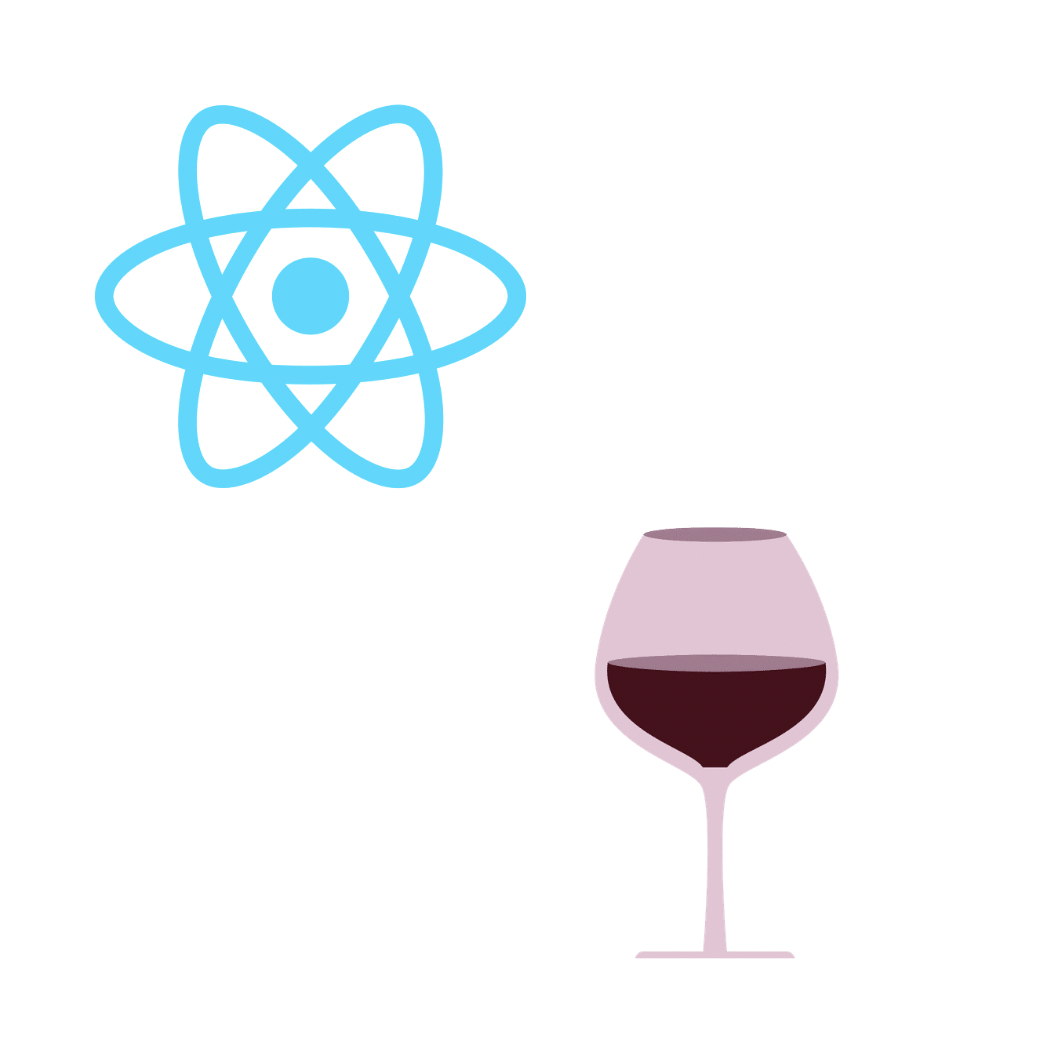
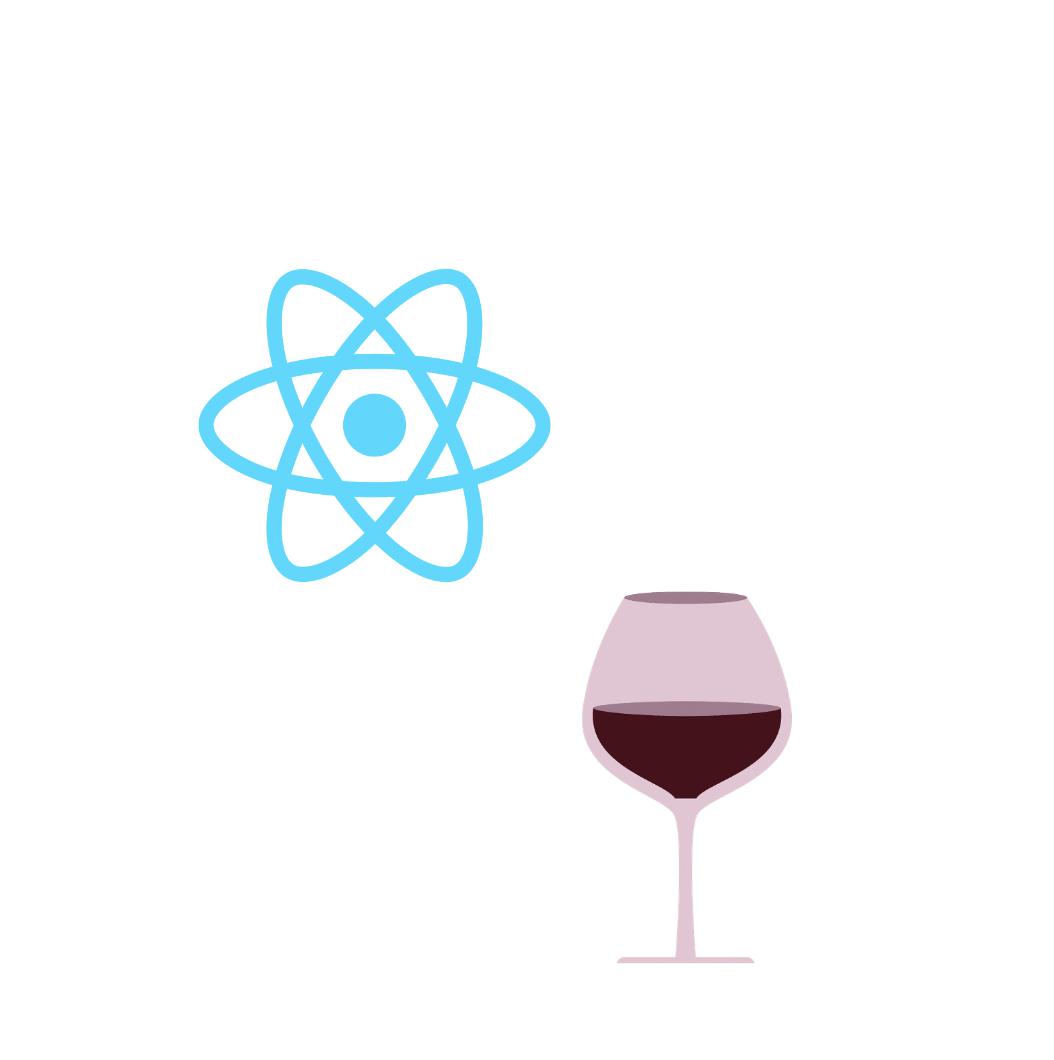
style changes

Changed region(s): [[0.0911, 0.0934, 0.5465, 0.5604], [0.5465, 0.4981, 0.7894, 0.934]]

diff --git a/src/App.js b/src/App.js
@@ -31,89 +31,71 @@ function App() {
         </p>
       </div>
       </div>
+<div className="project-header">
+      <span className="arrow-right">&#8595;</span>
+      <p>Projects</p>
+      <span className="arrow-left">&#8595;</span>
+</div>
+<div className="project-container">
+<a href="https://hilariousalpaca112.github.io/personas/">
+  <div className="project-item">
 
-        <div className="project-header">
-          <p>Projects I've Worked On</p>
+    <div className="project-description">
+        <p className="project-title"><b>Personas & Storyboarding</b></p>
+         <p className="about-text">
+        In this project, I observed users of the New York City MetroCard machines. Based on these observations and a brief interview with some users,
+        I designed personas and a storyboard to describe what the user experience is for the MetroCard machines.
+        </p>
         </div>
-        <div className="project-container">
-        <Row xs={1} md={2} className="g-4">    
-      
-          <Col>
-          <Card
+        <img src={require("./images/personas.png") } alt="personas image">
+        </img>
+        </div>
+    </a>
 
-          border="secondary"
-          className="card-item">
-          <Card.Img variant="top" className="project-img"src={require("./images/personas.png") }/>
-            <Card.Body>
-              <Card.Title>Personas & Storyboarding</Card.Title>
-              <Card.Text>
-                In this project, I observed users of the New York City MetroCard machines. Based on these observations and a brief interview with some users,
-                I designed personas and a storyboard to describe what the user experience is for the MetroCard machines.
-              </Card.Text>
-              <a href="https://hilariousalpaca112.github.io/personas/">
-              <Button 
-              variant="secondary">See Project</Button>
-              </a>
-            </Card.Body>
-          </Card>
-          </Col>
+    <a href="https://hilariousalpaca112.github.io/responsive-redesign/">
+  <div className="project-item">
+  <img src={require("./images/redesign.png") } alt="responsive redesign image">
+        </img>
+    <div className="project-description">
+        <p className="project-title"><b>Responsive Redesign</b></p>
+         <p className="about-text">
+         For this project, I redesigned a website interface with usability and accessibility principles in mind. Additionally, the redesigned site is 
+         responsive, so play around with different screen sizes to see how it looks on other devices!
+        </p>
+        </div>
 
+        </div>
+    </a>
 
-          <Col>
-          <Card
-          border="secondary"
-          className="card-item">
-          <Card.Img variant="top" className="project-img" src={require("./images/redesign.png") }/>
-            <Card.Body>
-              <Card.Title>Responsive Redesign</Card.Title>
-              <Card.Text>
-                For this project, I redesigned a website interface with usability and accessibility principles in mind. Additionally, the redesigned site is 
-                responsive, so play around with different screen sizes to see how it looks on other devices!
-              </Card.Text>
-              <a href="https://hilariousalpaca112.github.io/responsive-redesign/">
-              <Button variant="secondary">See Project</Button>
-              </a>
-            </Card.Body>
-          </Card>
-          </Col>
-
-          <Col>
-          <Card 
-          border="secondary"
-          className="card-item">
-          <Card.Img variant="top" className="project-img" src={require("./images/iterative-design.png") }/>
-            <Card.Body>
-              <Card.Title>Iterative Design</Card.Title>
-              <Card.Text>
-                As part of a <b>group project</b>, I helped to design an interface for Radius, a grocery delivery service
+    <a href="https://coldturkey888.github.io/cs1300-iterative-design/">
+  <div className="project-item">
+    <div className="project-description">
+        <p className="project-title"><b>Iterative Design</b></p>
+         <p className="about-text">
+         As part of a <b>group project</b>, I helped to design an interface for Radius, a grocery delivery service
                 based out of Jakarta, Indonesia. I gained valuable skills with prototyping and incorporating feedback from critiques!
-              </Card.Text>
-              <a href="https://coldturkey888.github.io/cs1300-iterative-design/">
-              <Button variant="secondary">See Project</Button>
-              </a>
-            </Card.Body>
-          </Card>
-          </Col>
+        </p>
+        </div>
+        <img src={require("./images/iterative-design.png") } alt="iterative design image">
+        </img>
+        </div>
+    </a>
 
-          <Col>
-          <Card 
-          border="secondary"
-          className="card-item">
-          <Card.Img variant="top" className="project-img" src={require("./images/development.png") }/>
-            <Card.Body>
-              <Card.Title>Development</Card.Title>
-              <Card.Text>
-                I used React for this project to create a simple online wine shop. It was a great way to learn more about React as well as good
-                design practices.
-                
-              </Card.Text>
-              <a href="https://hilariousalpaca112.github.io/development-page/">
-              <Button variant="secondary">See Project</Button>
-              </a>
-            </Card.Body>
-          </Card> 
-          </Col>     
-        </Row>
+
+    <a href="https://hilariousalpaca112.github.io/development-page/">
+  <div className="project-item">
+  <img src={require("./images/development.png") } alt="development image">
+        </img>
+    <div className="project-description">
+        <p className="project-title"><b>Development</b></p>
+         <p className="about-text">
+         I used React for this project to create a simple online wine shop. It was a great way to learn more about React as well as good
+         design practices.
+        </p>
+        </div>
+
+        </div>
+    </a>
         </div>
     </div>
   );

diff --git a/src/App.css b/src/App.css
@@ -1,5 +1,5 @@
 .App {
-  text-align: center;
+  
 }
 .my-image {
   display: inline-block;
@@ -8,8 +8,12 @@
   border-radius: 50%;
   margin-left: 100px;
   object-fit: cover;
+ 
 }
-
+img{
+  height: 600px;
+  width: 750px;
+}
 .about-container{
   display: flex;
   flex-direction: row;
@@ -28,32 +32,74 @@
   align-items: center;
   justify-content: center;
   font-size: 48px;
-  color: navy;
+  color: black;
 }
 .project-header{
-  padding-top: 1%;
-  padding-bottom: 1%;
   display: flex;
-  background-color: navy;
-  flex-direction: column;
-  align-items: center;
-  font-family: 'Roboto' !important;
-  justify-content: first baseline;
-  font-size: 48px;
-  color: white;
+  flex-direction: row;
+  justify-content: center;
+  color: gray;
+  padding-left: 7%;
+  font-size: 24px;
 }
-.card-item{
-  font-family: 'Roboto' !important; 
+.arrow-right{
+  padding-right: 2%;  
+}
+.arrow-left{
+  padding-left: 2%;
 }
 .project-img{
+  width: 100% !important;
   height: 50% !important;
+  margin-right: 4%;
 }
+
 .project-container{
-  padding: 2%;  
+  padding-top: 7%;
+  padding-left: 7%;  
+  padding-right: 7%;  
+  z-index: 1;
   background-color: white;
+  display: flex;
+  flex-direction: column;
+  justify-content: space-evenly;
+}
+.project-container a{
+  text-decoration: none;
+
+}
+.project-item{
+  display: flex;
+  margin-bottom: 7%;
+  flex-direction: row;
+  align-items: center;
+  justify-content: space-between;
+  padding: 1%;
+  border-radius: 15px;
+  box-shadow: rgba(0, 0, 0, 0.25) 0px 54px 55px, rgba(0, 0, 0, 0.12) 0px -12px 30px, rgba(0, 0, 0, 0.12) 0px 4px 6px, rgba(0, 0, 0, 0.17) 0px 12px 13px, rgba(0, 0, 0, 0.09) 0px -3px 5px;
+}
+.project-item:hover  {
+  transform: scale(0.9);
+  overflow: hidden; /* [1.2] Hide the overflowing of child elements */
+  transition: transform .5s ease;
+
+}
+
+.project-title{
+  font-size: 32px;
+  color: black;
+  text-decoration: none;
+  margin-left: 4%;
+}
+.project-description{
+  display: flex;
+  flex-direction: column;
+  align-items: center;
 }
 .about-text{
   color: gray;
+  text-decoration: none;
+  text-align: center;
   font-size: 24px;
   font-family: 'Roboto' !important;
   width: 80%;
